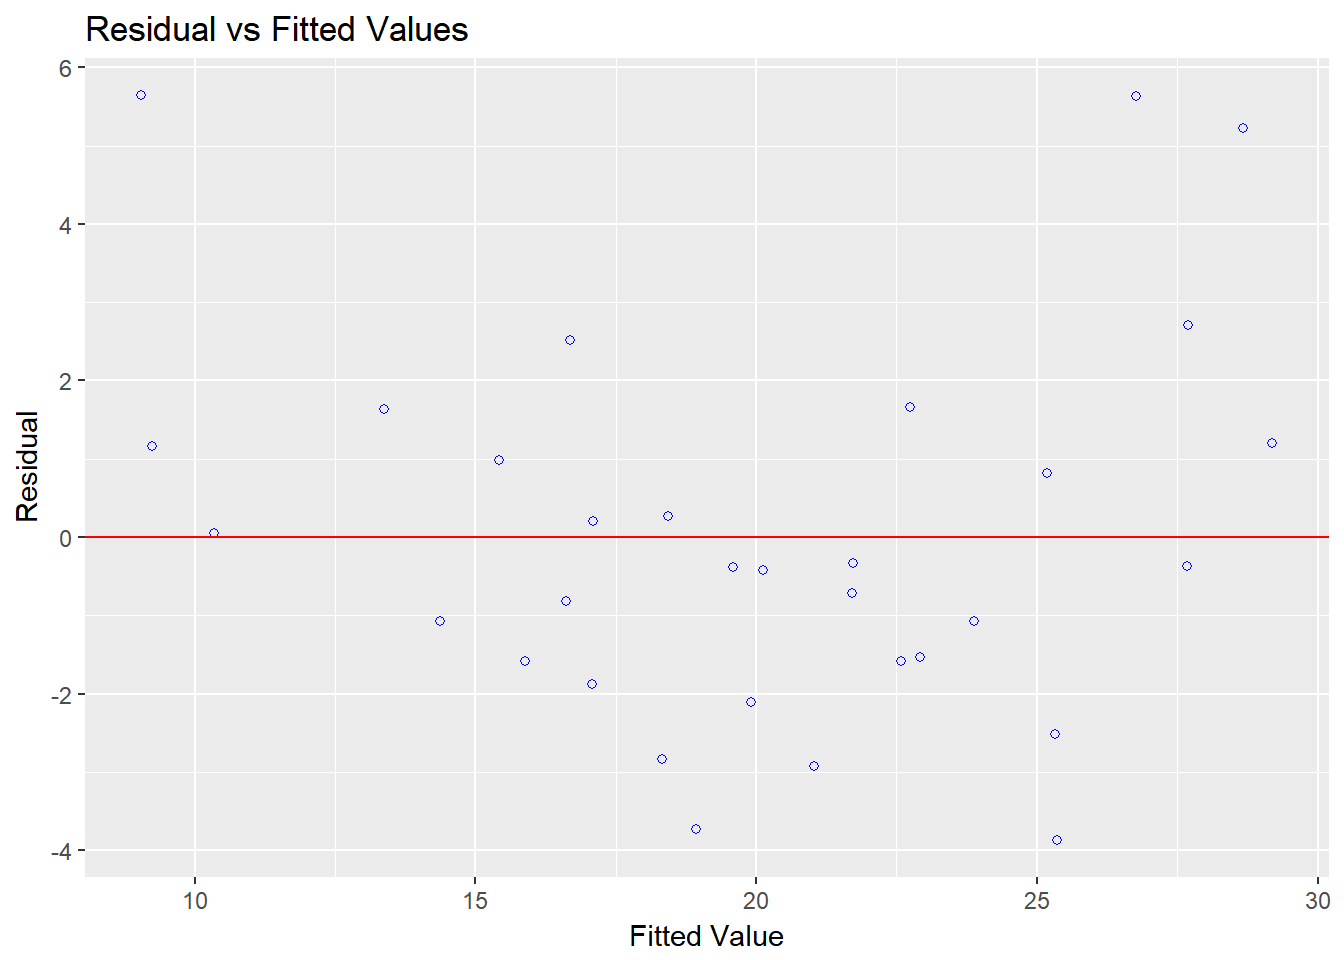
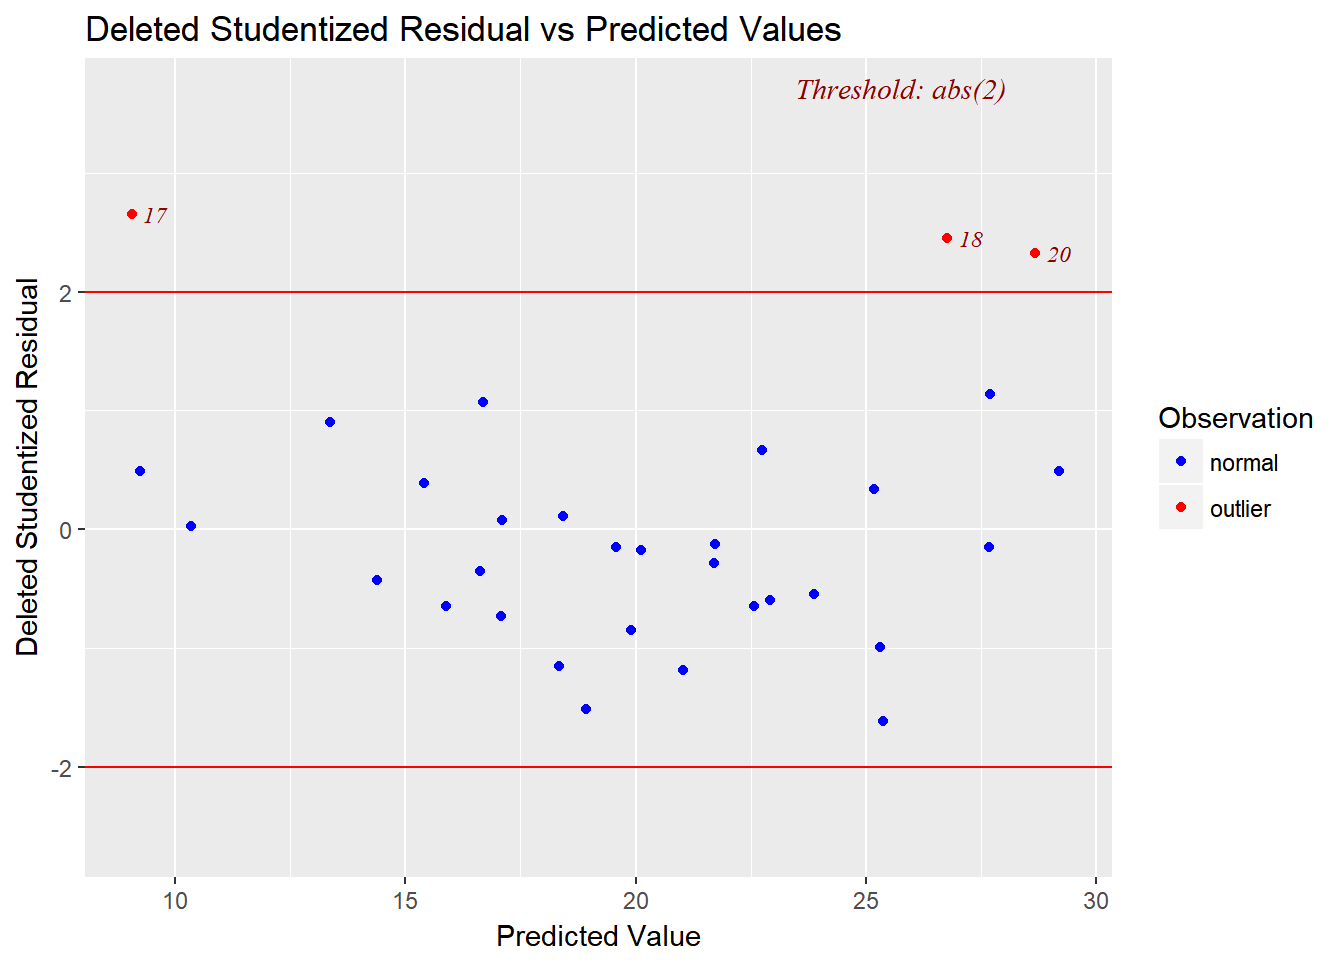
change name of deleted studentized residual vs fitted plot

diff --git a/docs/articles/influence_measures.html b/docs/articles/influence_measures.html
@@ -197,7 +197,7 @@
 <a href="#deleted-studentized-residual-vs-fitted-values-plot" class="anchor"></a>Deleted Studentized Residual vs Fitted Values Plot</h2>
 <p>Graph for detecting outliers.</p>
 <div class="sourceCode" id="cb8"><pre class="sourceCode r"><code class="sourceCode r"><a class="sourceLine" id="cb8-1" data-line-number="1">model &lt;-<span class="st"> </span><span class="kw">lm</span>(mpg <span class="op">~</span><span class="st"> </span>disp <span class="op">+</span><span class="st"> </span>hp <span class="op">+</span><span class="st"> </span>wt <span class="op">+</span><span class="st"> </span>qsec, <span class="dt">data =</span> mtcars)</a>
-<a class="sourceLine" id="cb8-2" data-line-number="2"><span class="kw">ols_plot_resid_fit</span>(model)</a></code></pre></div>
+<a class="sourceLine" id="cb8-2" data-line-number="2"><span class="kw"><a href="../reference/ols_plot_resid_stud_fit.html">ols_plot_resid_stud_fit</a></span>(model)</a></code></pre></div>
 <p><img src="influence_measures_files/figure-html/dsrvsp-1.png" width="672" style="display: block; margin: auto;"></p>
 </div>
 <div id="hadi-plot" class="section level2">

diff --git a/docs/articles/intro.html b/docs/articles/intro.html
@@ -168,7 +168,7 @@
 <a href="#residual-vs-fitted-values-plot" class="anchor"></a>Residual vs Fitted Values Plot</h2>
 <p>Plot to detect non-linearity, unequal error variances, and outliers.</p>
 <div class="sourceCode" id="cb3"><pre class="sourceCode r"><code class="sourceCode r"><a class="sourceLine" id="cb3-1" data-line-number="1">model &lt;-<span class="st"> </span><span class="kw">lm</span>(mpg <span class="op">~</span><span class="st"> </span>disp <span class="op">+</span><span class="st"> </span>hp <span class="op">+</span><span class="st"> </span>wt <span class="op">+</span><span class="st"> </span>qsec, <span class="dt">data =</span> mtcars)</a>
-<a class="sourceLine" id="cb3-2" data-line-number="2"><span class="kw">ols_plot_resid_fit</span>(model)</a></code></pre></div>
+<a class="sourceLine" id="cb3-2" data-line-number="2"><span class="kw"><a href="../reference/ols_plot_resid_fit.html">ols_plot_resid_fit</a></span>(model)</a></code></pre></div>
 <p><img src="intro_files/figure-html/rvsfplot-1.png" width="480" style="display: block; margin: auto;"></p>
 </div>
 <div id="dfbetas-panel" class="section level2">

diff --git a/docs/articles/residual_diagnostics.html b/docs/articles/residual_diagnostics.html
@@ -151,7 +151,7 @@
 <li>No one residual is visibly away from the random pattern of the residuals indicating that there are no outliers.</li>
 </ul>
 <div class="sourceCode" id="cb6"><pre class="sourceCode r"><code class="sourceCode r"><a class="sourceLine" id="cb6-1" data-line-number="1">model &lt;-<span class="st"> </span><span class="kw">lm</span>(mpg <span class="op">~</span><span class="st"> </span>disp <span class="op">+</span><span class="st"> </span>hp <span class="op">+</span><span class="st"> </span>wt <span class="op">+</span><span class="st"> </span>qsec, <span class="dt">data =</span> mtcars)</a>
-<a class="sourceLine" id="cb6-2" data-line-number="2"><span class="kw">ols_plot_resid_fit</span>(model)</a></code></pre></div>
+<a class="sourceLine" id="cb6-2" data-line-number="2"><span class="kw"><a href="../reference/ols_plot_resid_fit.html">ols_plot_resid_fit</a></span>(model)</a></code></pre></div>
 <p><img src="residual_diagnostics_files/figure-html/rvsfplot-1.png" width="480" style="display: block; margin: auto;"></p>
 </div>
 <div id="residual-histogram" class="section level2">

diff --git a/docs/reference/index.html b/docs/reference/index.html
@@ -265,7 +265,7 @@
           <td>
             <p><code><a href="ols_plot_resid_fit.html">ols_plot_resid_fit</a></code> </p>
           </td>
-          <td><p>Deleted studentized residual vs fitted values plot</p></td>
+          <td><p>Residual vs fitted plot</p></td>
         </tr>
       </tbody><tbody>
         <tr>
@@ -365,7 +365,7 @@
         </tr><tr>
           <!--  -->
           <td>
-            <p><code><a href="ols_plot_resid_fit.html">ols_plot_resid_fit</a></code> </p>
+            <p><code><a href="ols_plot_resid_stud_fit.html">ols_plot_resid_stud_fit</a></code> </p>
           </td>
           <td><p>Deleted studentized residual vs fitted values plot</p></td>
         </tr><tr>

diff --git a/docs/reference/ols_test_normality.html b/docs/reference/ols_test_normality.html
@@ -162,7 +162,7 @@ following components:</p>
     <h2 class="hasAnchor" id="see-also"><a class="anchor" href="#see-also"></a>See also</h2>
 
     <p>Other residual diagnostics: <code><a href='ols_plot_resid_box.html'>ols_plot_resid_box</a></code>,
-  <code>ols_plot_resid_fit</code>,
+  <code><a href='ols_plot_resid_fit.html'>ols_plot_resid_fit</a></code>,
   <code><a href='ols_plot_resid_hist.html'>ols_plot_resid_hist</a></code>,
   <code><a href='ols_plot_resid_qq.html'>ols_plot_resid_qq</a></code>,
   <code><a href='ols_test_correlation.html'>ols_test_correlation</a></code></p>

diff --git a/docs/reference/ols_plot_resid_qq.html b/docs/reference/ols_plot_resid_qq.html
@@ -144,7 +144,7 @@
     <h2 class="hasAnchor" id="see-also"><a class="anchor" href="#see-also"></a>See also</h2>
 
     <p>Other residual diagnostics: <code><a href='ols_plot_resid_box.html'>ols_plot_resid_box</a></code>,
-  <code>ols_plot_resid_fit</code>,
+  <code><a href='ols_plot_resid_fit.html'>ols_plot_resid_fit</a></code>,
   <code><a href='ols_plot_resid_hist.html'>ols_plot_resid_hist</a></code>,
   <code><a href='ols_test_correlation.html'>ols_test_correlation</a></code>,
   <code><a href='ols_test_normality.html'>ols_test_normality</a></code></p>

diff --git a/docs/reference/ols_plot_resid_hist.html b/docs/reference/ols_plot_resid_hist.html
@@ -144,7 +144,7 @@
     <h2 class="hasAnchor" id="see-also"><a class="anchor" href="#see-also"></a>See also</h2>
 
     <p>Other residual diagnostics: <code><a href='ols_plot_resid_box.html'>ols_plot_resid_box</a></code>,
-  <code>ols_plot_resid_fit</code>,
+  <code><a href='ols_plot_resid_fit.html'>ols_plot_resid_fit</a></code>,
   <code><a href='ols_plot_resid_qq.html'>ols_plot_resid_qq</a></code>,
   <code><a href='ols_test_correlation.html'>ols_test_correlation</a></code>,
   <code><a href='ols_test_normality.html'>ols_test_normality</a></code></p>

diff --git a/docs/reference/ols_plot_resid_box.html b/docs/reference/ols_plot_resid_box.html
@@ -143,7 +143,7 @@
     
     <h2 class="hasAnchor" id="see-also"><a class="anchor" href="#see-also"></a>See also</h2>
 
-    <p>Other residual diagnostics: <code>ols_plot_resid_fit</code>,
+    <p>Other residual diagnostics: <code><a href='ols_plot_resid_fit.html'>ols_plot_resid_fit</a></code>,
   <code><a href='ols_plot_resid_hist.html'>ols_plot_resid_hist</a></code>,
   <code><a href='ols_plot_resid_qq.html'>ols_plot_resid_qq</a></code>,
   <code><a href='ols_test_correlation.html'>ols_test_correlation</a></code>,

diff --git a/docs/reference/ols_plot_resid_lev.html b/docs/reference/ols_plot_resid_lev.html
@@ -143,7 +143,7 @@
     
     <h2 class="hasAnchor" id="see-also"><a class="anchor" href="#see-also"></a>See also</h2>
 
-    <p>[ols_plot_resid_fit()], [ols_plot_resid_lev()]</p>
+    <p>[ols_plot_resid_stud_fit()], [ols_plot_resid_lev()]</p>
     
 
     <h2 class="hasAnchor" id="examples"><a class="anchor" href="#examples"></a>Examples</h2>
